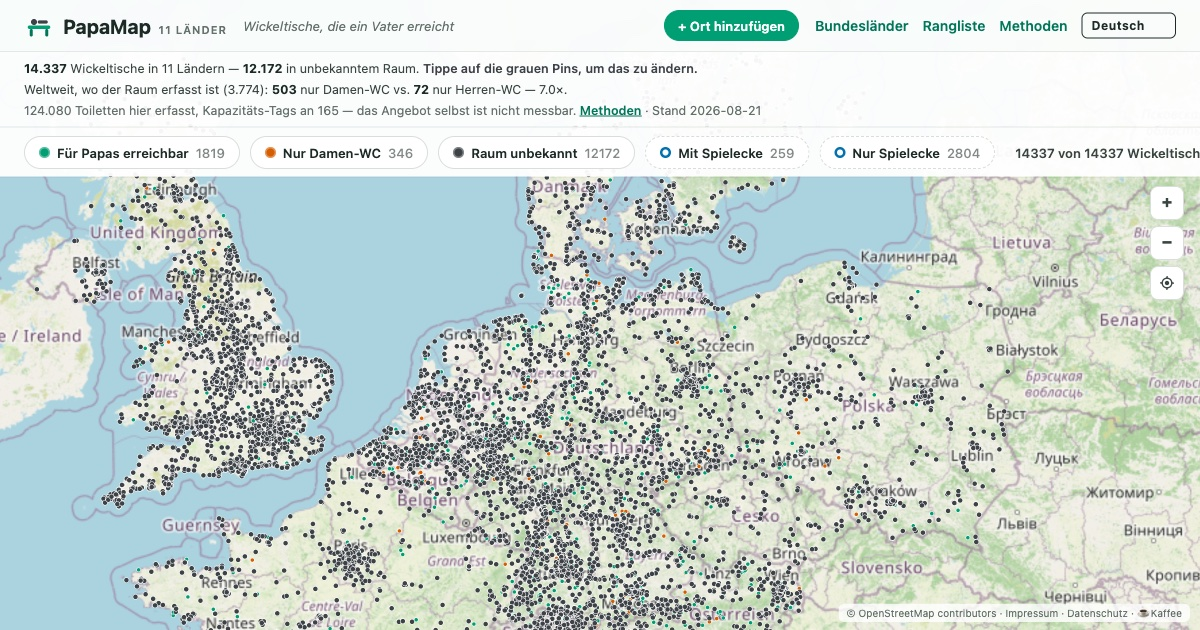
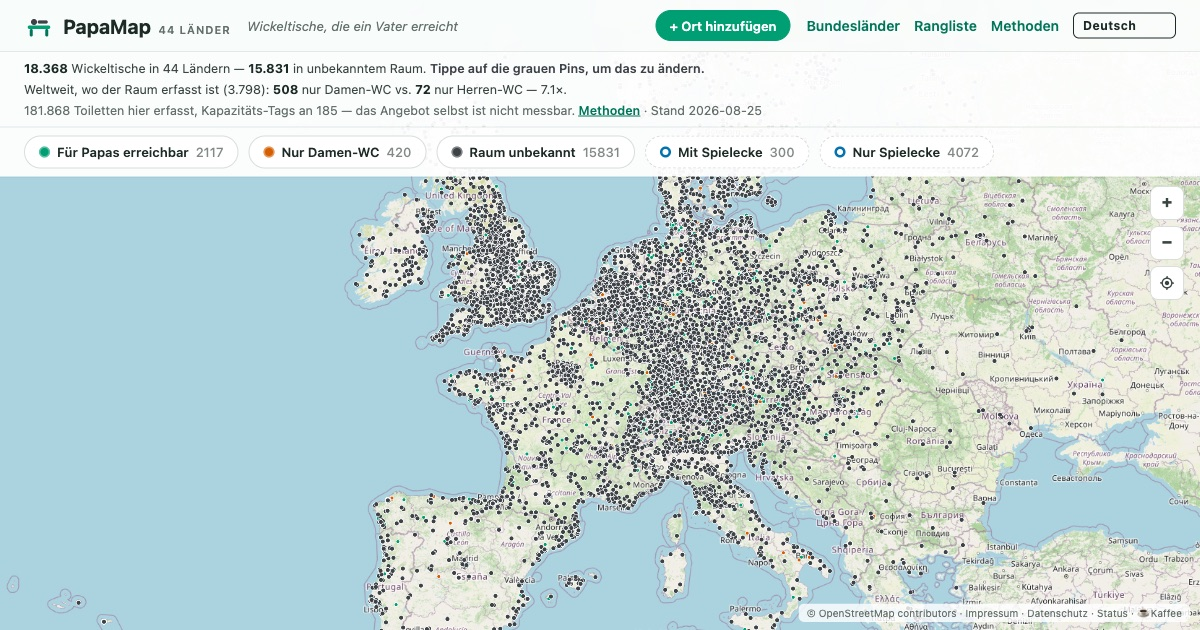
Refresh the OG card for the 44-country map (#70)
The og-image was the 2026-08-21 screenshot: 14.337 Wickeltische in 11
Ländern. The site itself has said 44 countries since the Europe sweep
landed, so any link shared now unfurls a card that contradicts the page
it points at.

New 1200x630 screenshot of the live site (?lang=de), framed on the
European mainland with the header strip carrying the current numbers and
Stand 2026-08-25. The og:image URL gains ?v=eu44 so instances and
scrapers fetch the new file immediately instead of waiting out the 4 h
Cloudflare edge cache on the bare URL.

diff --git a/web/index.html b/web/index.html
@@ -17,7 +17,7 @@
   <meta property="og:description" content="Eine Karte der Wickeltische in 44 europäischen Ländern, eingefärbt danach, ob ein Papa sie tatsächlich erreicht. Daten: OpenStreetMap." />
   <meta property="og:type" content="website" />
   <meta property="og:url" content="https://papamap.de/" />
-  <meta property="og:image" content="https://papamap.de/og-image.jpg" />
+  <meta property="og:image" content="https://papamap.de/og-image.jpg?v=eu44" />
   <meta property="og:image:width" content="1200" />
   <meta property="og:image:height" content="630" />
   <meta property="og:locale" content="de_DE" />
